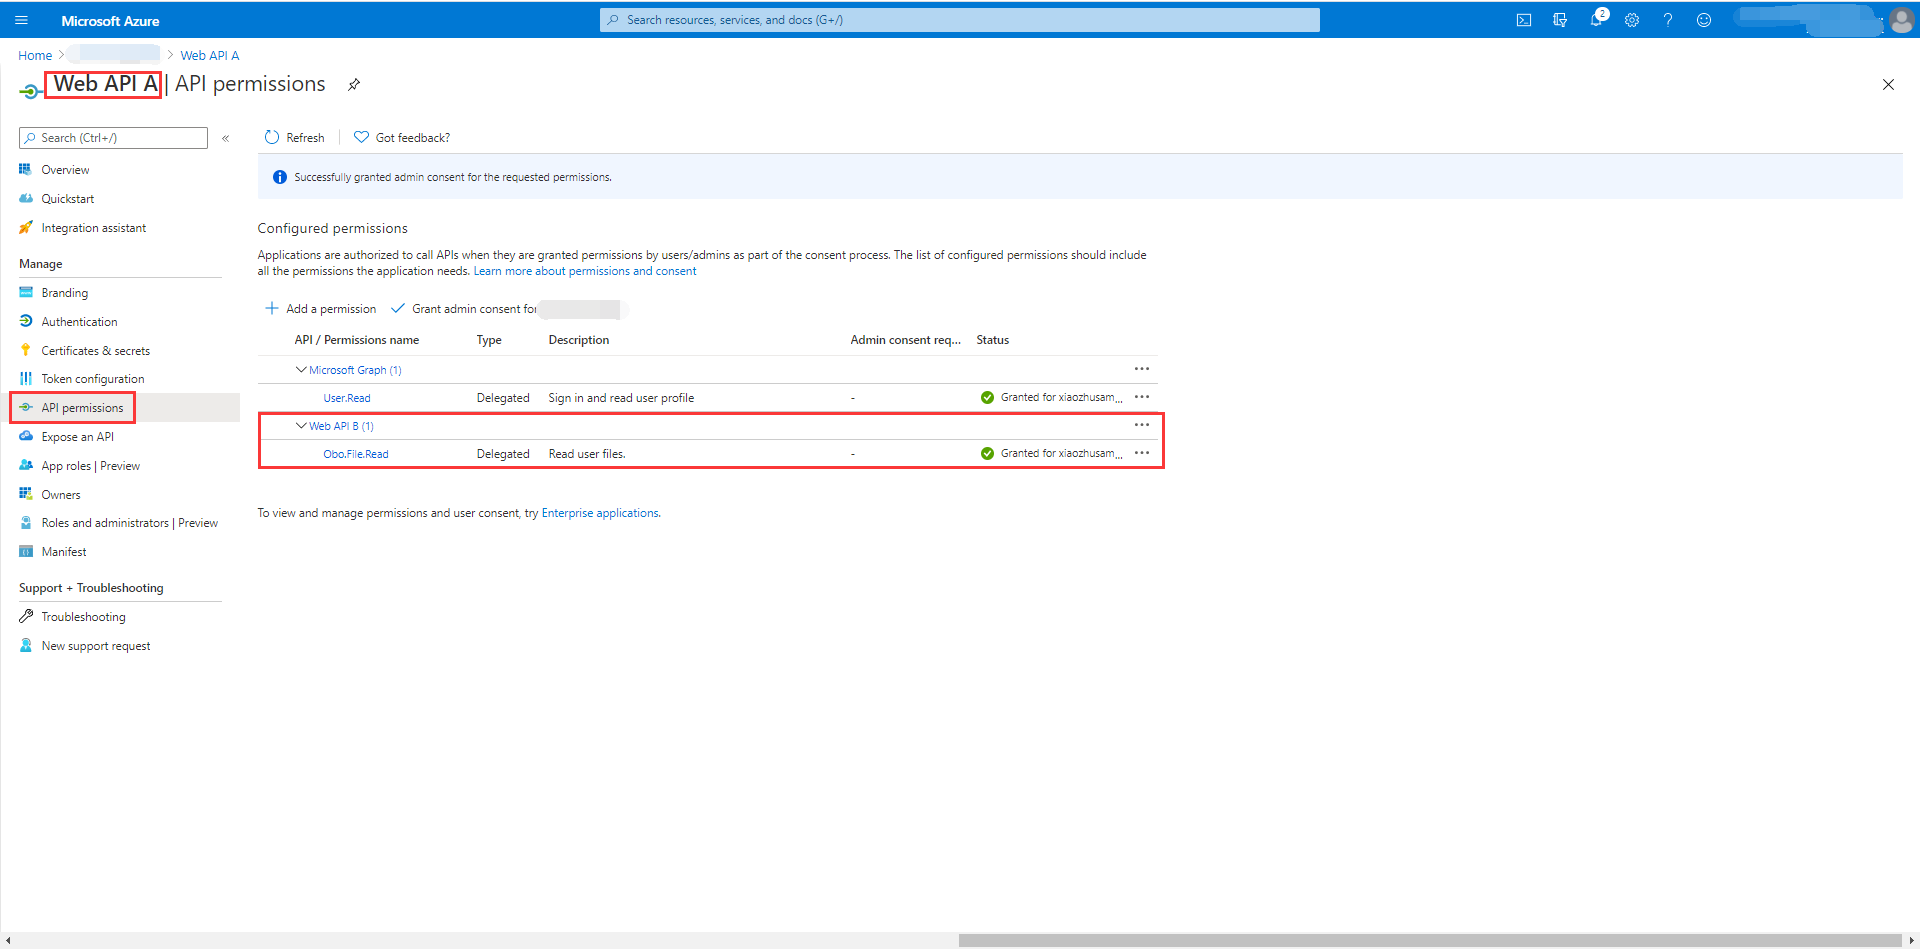
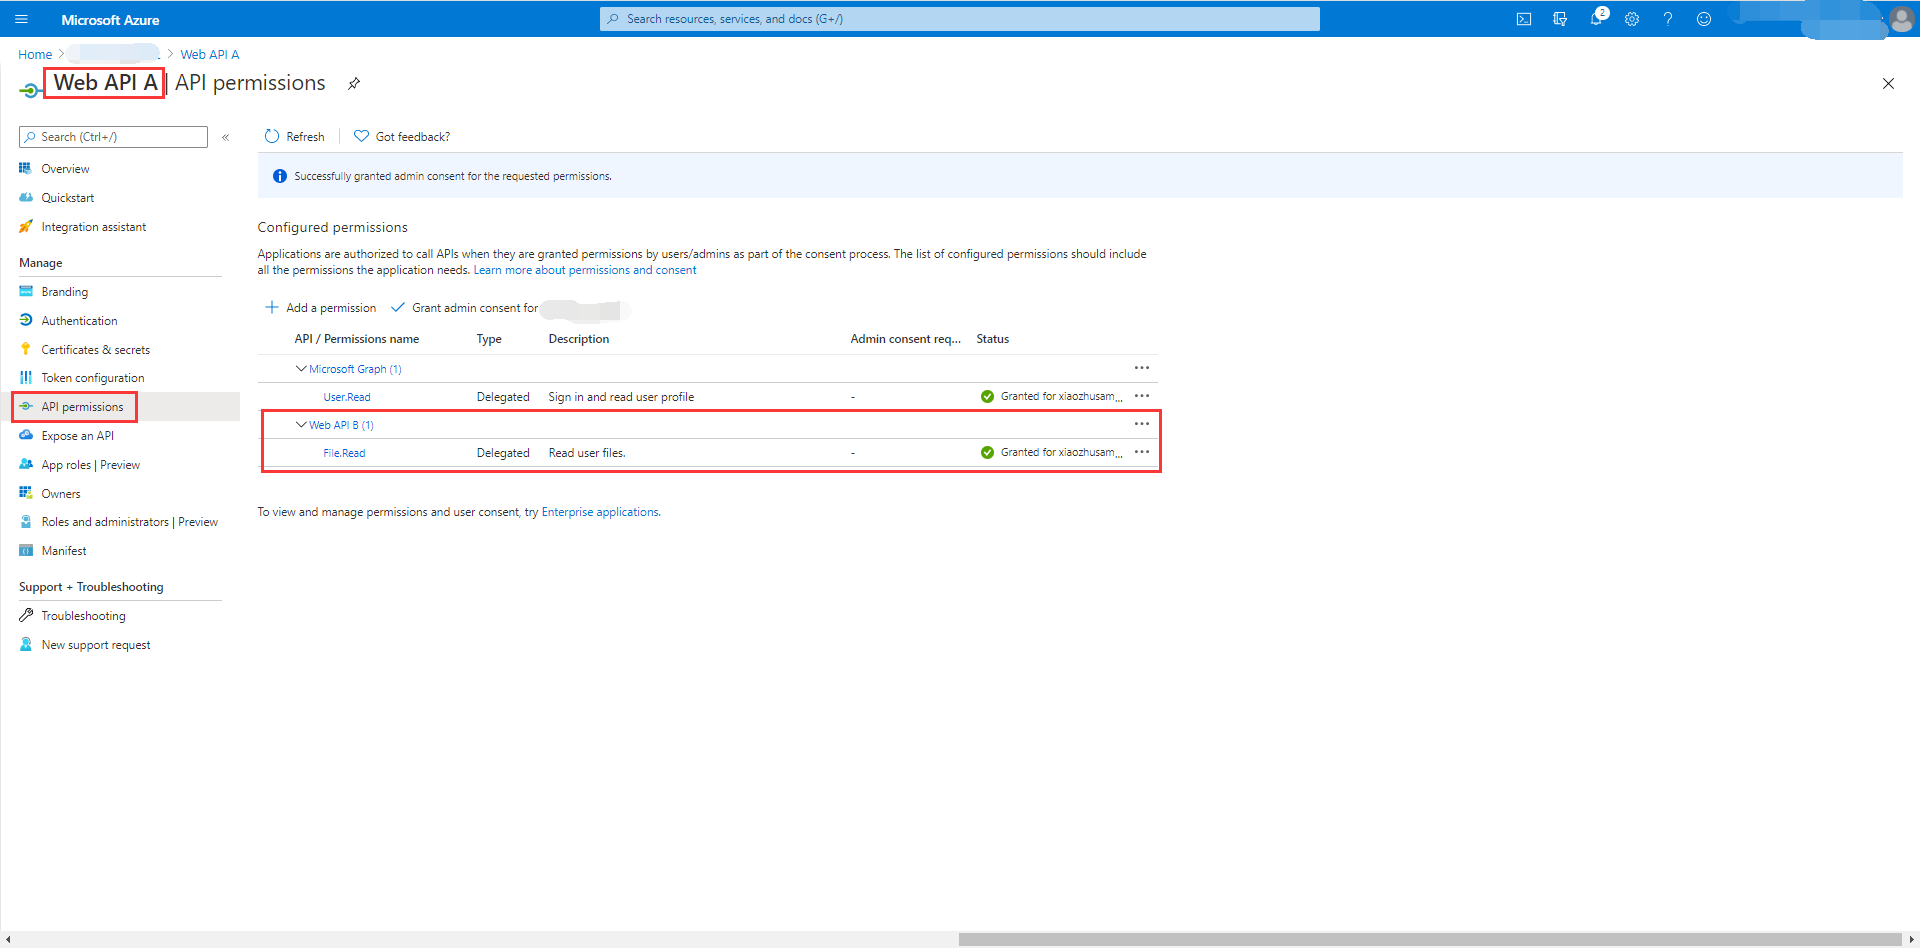
Update the resource-server-obo README.md file and modify part of the code.

diff --git a/sdk/spring/azure-spring-boot-samples/azure-spring-boot-sample-active-directory-resource-server-obo/src/main/java/com/azure/spring/sample/aad/controller/SampleController.java b/sdk/spring/azure-spring-boot-samples/azure-spring-boot-sample-active-directory-resource-server-obo/src/main/java/com/azure/spring/sample/aad/controller/SampleController.java
@@ -57,23 +57,21 @@ public class SampleController {
      * @return Response with graph data
      */
     @GetMapping("call-graph-only-with-annotation")
-    @PreAuthorize("hasAuthority('SCOPE_Obo.GraphAndObo.File.Read')")
+    @PreAuthorize("hasAuthority('SCOPE_Obo.Graph.Read')")
     public String callGraphOnlyWithAnnotation(@RegisteredOAuth2AuthorizedClient("graph") OAuth2AuthorizedClient graph) {
         return callMicrosoftGraphMeEndpoint(graph);
     }
 
     /**
-     * Call the graph and custom(local) resources, combine all the response and return.
-     * @param graph authorized client for Graph
+     * Call custom resources, combine all the response and return.
      * @param custom authorized client for Custom
      * @return Response Graph and Custom data.
      */
+    @GetMapping("call-custom-resources")
     @PreAuthorize("hasAuthority('SCOPE_Obo.File.Read')")
-    @GetMapping("call-graph-and-custom-resources")
     public String callGraphAndCustomResources(
-        @RegisteredOAuth2AuthorizedClient("graph") OAuth2AuthorizedClient graph,
         @RegisteredOAuth2AuthorizedClient("custom") OAuth2AuthorizedClient custom) {
-        return callMicrosoftGraphMeEndpoint(graph) + " " + callCustomLocalFileEndpoint(custom);
+        return callCustomLocalFileEndpoint(custom);
     }
 
     /**
@@ -106,7 +104,7 @@ public class SampleController {
             .retrieve()
             .bodyToMono(String.class)
             .block();
-        LOGGER.info("Response from Custom(local): {}", body);
-        return "Web API B response " + (null != body ? "success." : "failed.");
+        LOGGER.info("Response from Custom: {}", body);
+        return "Custom response " + (null != body ? "success." : "failed.");
     }
 }

diff --git a/sdk/spring/azure-spring-boot-samples/azure-spring-boot-sample-active-directory-resource-server-obo/README.md b/sdk/spring/azure-spring-boot-samples/azure-spring-boot-sample-active-directory-resource-server-obo/README.md
@@ -56,9 +56,9 @@ We need to ensure that this [environment checklist][ready-to-run-checklist] is c
 ```
 
 ### Configure your middle-tier Web API A
-1. You can follow *Web API A* to add `Obo.Graph.Read`, `Obo.GraphAndObo.File.Read` scopes. The **Application ID URL** is generated by default.(**NOTE**: In the **Web API A** `Obo.Graph.Read`, `Obo.GraphAndObo.File.Read` scopes should be added to the **Web APP**.)![API Permissions](docs/image-resource-server-obo-add-scope.png)
+1. You can follow *Web API A* to add `Obo.Graph.Read`, `Obo.File.Read` scopes. The **Application ID URL** is generated by default.(**NOTE**: In the **Web API A** `Obo.Graph.Read`, `Obo.File.Read` scopes should be added to the **Web APP**.)![API Permissions](docs/image-resource-server-obo-add-scope.png)
 2. Select **API permissions** > **Add a permission** > **My APIs**, select *Web API B* application name. ![Select MyAPIs](docs/image-select-myapis.png)
-3. **Delegated permissions** is selected by default， Select **Obo_File** > **Obo_File.Read** permission, select **Add permission** to complete the process.![Add Permissions](docs/image-add-permissions.png)
+3. **Delegated permissions** is selected by default， Select **File** > **File.Read** permission, select **Add permission** to complete the process.![Add Permissions](docs/image-add-permissions.png)
 4. Add **Web API B** permissions to **Web API A** and grant admin consent.![API Permissions](docs/image-add-grant-admin-consent.png)
 
 See [OAuth 2.0 On-Behalf-Of flow] for more information about OBO.
@@ -116,16 +116,16 @@ Verify response:
 Graph response success.
 ```
 
-- Web API A will call Graph and Web API B resources. 
+- Web API A will call Custom(Web API B) resources. 
 
 ```shell script
 # Replace to valid access token.
-curl localhost:8081/call-graph-and-custom-resources -H "Authorization: Bearer <replace-the-access-token>"
+curl localhost:8081/call-custom-resources -H "Authorization: Bearer <replace-the-access-token>"
 ```
 
 Verify response:
 ```text
-Graph response success. Web API B response success.
+Custom response success.
 ```
 
 ## Troubleshooting
